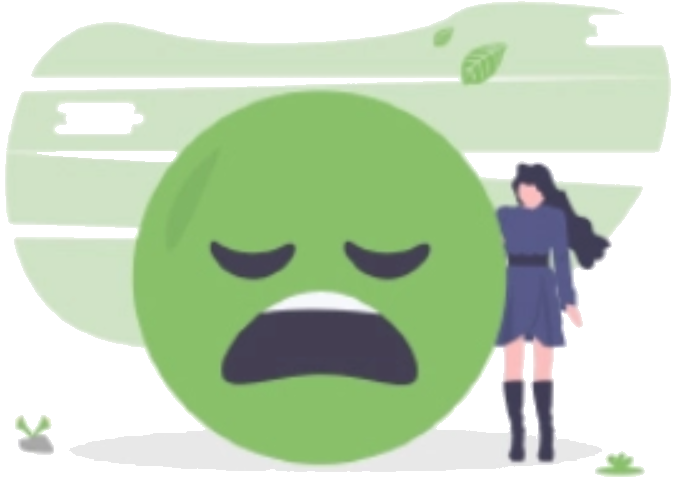
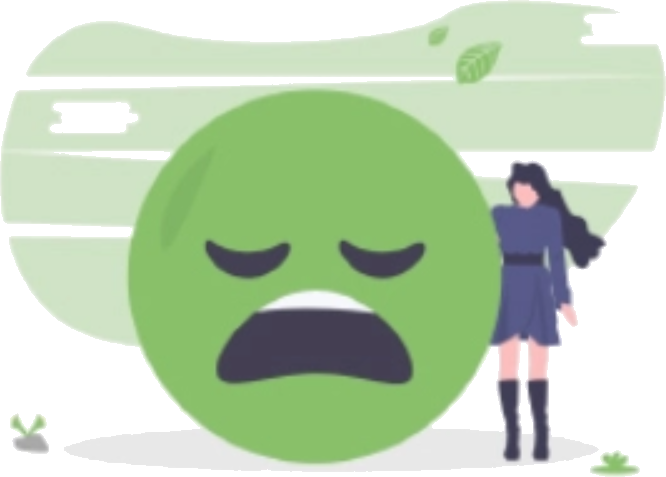
almost full responsive

diff --git a/layout.css b/layout.css
@@ -1,12 +1,14 @@
 body{
     display: grid;
     grid-template-columns: 1fr;
+    
 
 }
 
 .container{
     display: grid;
-grid-template-columns:  1fr 1fr;
+grid-template-columns: 400px 1fr 400px;
+
 }
 
 
@@ -14,11 +16,13 @@ grid-template-columns:  1fr 1fr;
  grid-column: 1/2;
 
  
- width: 30%;
+ width: 50%;
+ margin-left: 140px;
+ margin-top: 80px;
 
- margin-left: 200px; 
- position: absolute;
- margin-top: 150px;
+
+ 
+ 
  
  
  
@@ -33,7 +37,7 @@ grid-template-columns:  1fr 1fr;
 
 .container > .left-bottom> h1{
 
-    font-size: 70px;
+    font-size: 44px;
     width: 100%;
     
     
@@ -41,9 +45,8 @@ grid-template-columns:  1fr 1fr;
 
 .container > .left-bottom> p{
 
-    font-size: 22px;
-    width: 40%;
-    margin-bottom: 100px;
+    font-size: 24px;
+    width: 100%;
     text-align: left;
     
   
@@ -51,8 +54,8 @@ grid-template-columns:  1fr 1fr;
 }
 
 .container > .right-bottom {
-    grid-column: 2/3;
-    width: 70%;
+    grid-column: 3/4;
+    width: 66%;
     margin-top: 60px;
     
     
@@ -65,8 +68,8 @@ grid-template-columns:  1fr 1fr;
 .container > .left-top {
     grid-column: 1/2;
     margin-top: 20px;
-    margin-left: 140px;
-    width: 10%;
+    margin-left: 60px;
+    height: 50px;
 
   
     
@@ -75,18 +78,19 @@ grid-template-columns:  1fr 1fr;
    
    }
    .container > .right-top {
-    grid-column: 2/3;
-    margin-left: 150px;
-    margin-top: 20px;
+    grid-column: 3/4;
+    
+    margin-top: 25px;
+    height: 50px;
    
    
    
    }
 
    .container > .right-top> a {
-    display: inline-block;
+    
         text-decoration: none;
-        font-size: 20px;
+        font-size:12px;
         margin-left: 15px;
         color: burlywood;
         padding: 2px;
@@ -95,7 +99,7 @@ grid-template-columns:  1fr 1fr;
    
    }
 
-   a:last-of-type{
+   .container > .right-top> a:last-of-type{
         text-transform: uppercase;
         border-color: burlywood;
         border-radius: 23px;
@@ -105,5 +109,89 @@ grid-template-columns:  1fr 1fr;
     }
 
 
+    @media ( max-width: 750px){
+        .container{
+            
+        grid-template-columns: 300px 1fr 300px;
+        
+        }
+
+        .container > .left-top {
+            grid-column: 1/2;
+            margin-top: 20px;
+            margin-left: 100px;
+            height: 50px;
+        
 
 
+    }
+
+    .container > .left-top {
+        grid-column: 1/2;
+        margin-top: 20px;
+        margin-left: 140px;
+        height: 50px;
+    
+      
+        
+       
+       
+       
+       }
+
+    
+
+
+    }
+
+   @media( max-width: 600px){
+
+    .container > .right-bottom {
+        grid-column: 1/2;
+        width: 66%;
+        margin-top: 60px;
+        margin-left: 50px;
+        
+        
+        
+       
+       
+       
+       }
+       .container > .right-top {
+        grid-column: 1/2;
+        
+        margin-top: 25px;
+        height: 50px;
+       
+       
+       
+       }
+
+       .container > .left-bottom{
+        grid-column: 1/2;
+       
+        
+        width: 50%;
+        margin-left: 100px;
+        margin-top: 80px;
+       
+       
+        
+        
+        
+        
+        
+        
+        
+        
+        
+       
+       
+       
+       }
+
+       
+
+
+   }

diff --git a/index.html b/index.html
@@ -29,11 +29,12 @@ body * {
             </nav>
         </header>
         <section class="container">
-            <img class="right-bottom" src="mergaite.png" alt="mergaite">
+            
             <div class="left-bottom">
                 <h1>404</h1>
                 <p>Lorem ipsum dolor, sit amet consectetur adipisicing elit. Impedit, explicabo!</p>
             </div>
+            <img class="right-bottom" src="mergaite.png" alt="mergaite">
         </section>
     </main>
     
